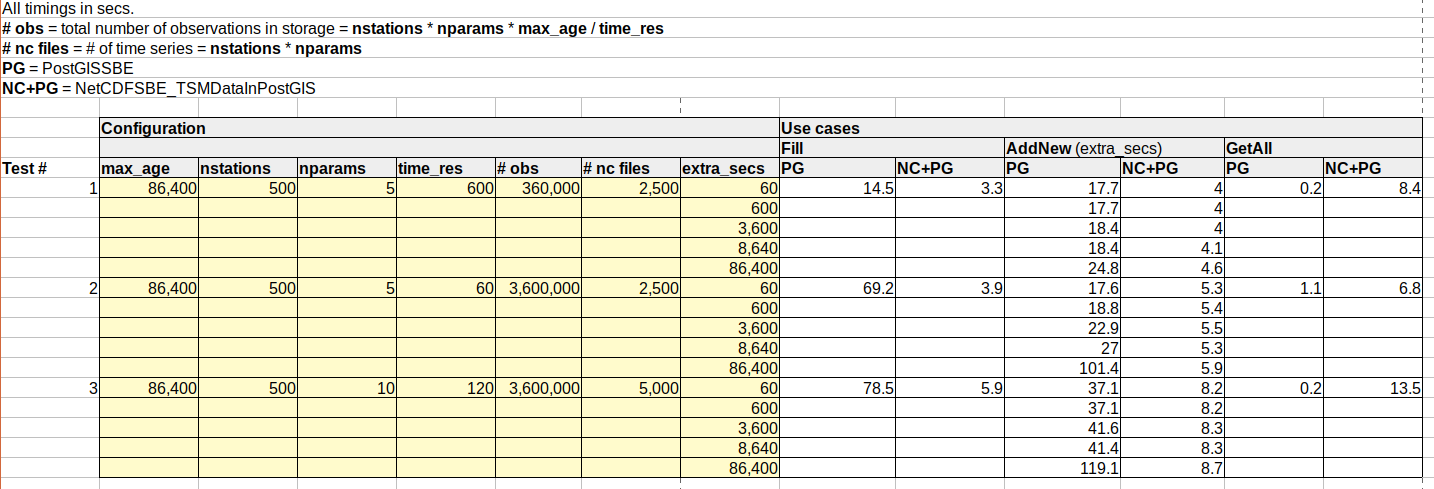
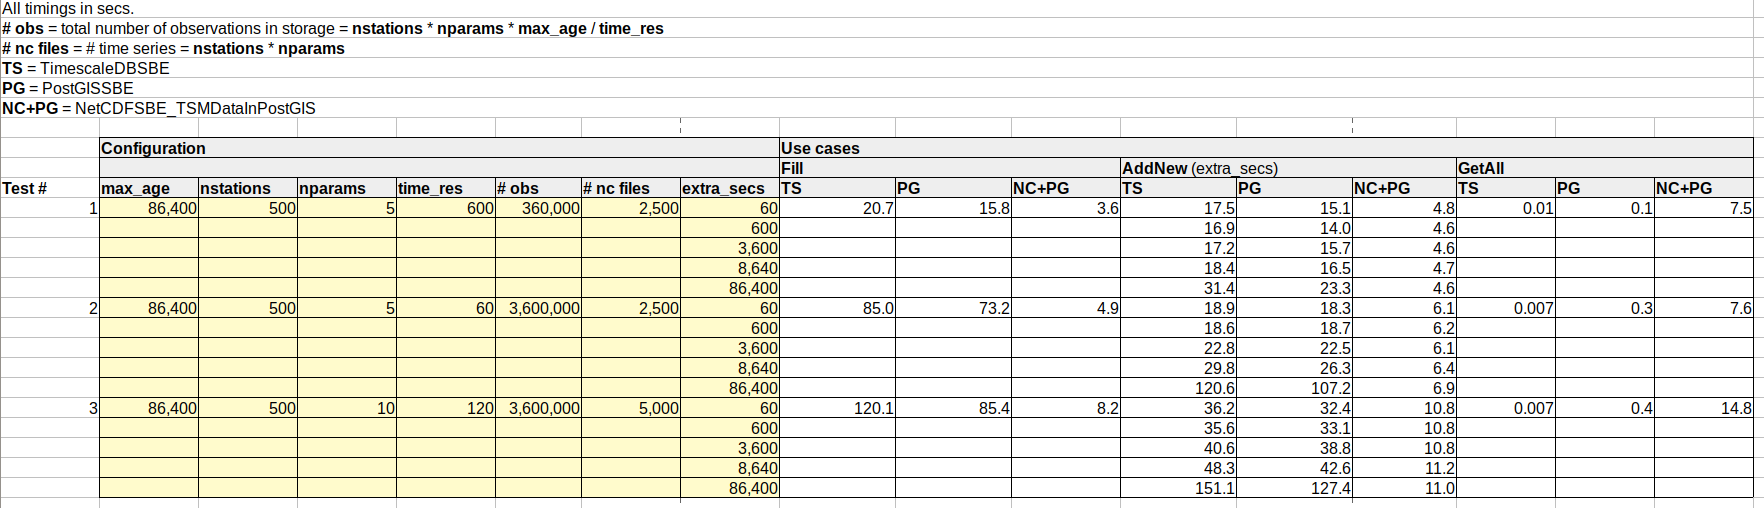
Added TimescaleDB results

Changed region(s): [[0.0, 0.0, 1.0, 0.9816]]

diff --git a/poc-experiments/datastore-sqlvsfiles/datastore-sqlvsfiles.md b/poc-experiments/datastore-sqlvsfiles/datastore-sqlvsfiles.md
@@ -21,8 +21,9 @@ Two backends are currently implemented:
 
 | Name  | Description |
 | :---- | :--------------------------------- |
-| PostGISSBE | Keeps all data in PostGIS database. |
-| NetCDFSBE_TSMDataInPostGIS | Keeps all data in netCDF files on the local file system, one file per time series. Per time series metadata (i.e. not actual observations) will also be kept in a PostGIS database to speed up searching for target files to retrieve observations from. |
+| TimescaleDBSBE | Keeps all data in a TimescaleDB database extended with PostGIS. |
+| PostGISSBE | Keeps all data in a Postgres database extended with PostGIS. |
+| NetCDFSBE_TSMDataInPostGIS | Keeps all data in netCDF files on the local file system, one file per time series. Per time series metadata (i.e. not actual observations) will also be kept in a Postgres database GIS database extended with PostGIS to speed up searching for target files to retrieve observations from. |
 
 **Note:** the program is designed to make it easy to add more backends.
 
